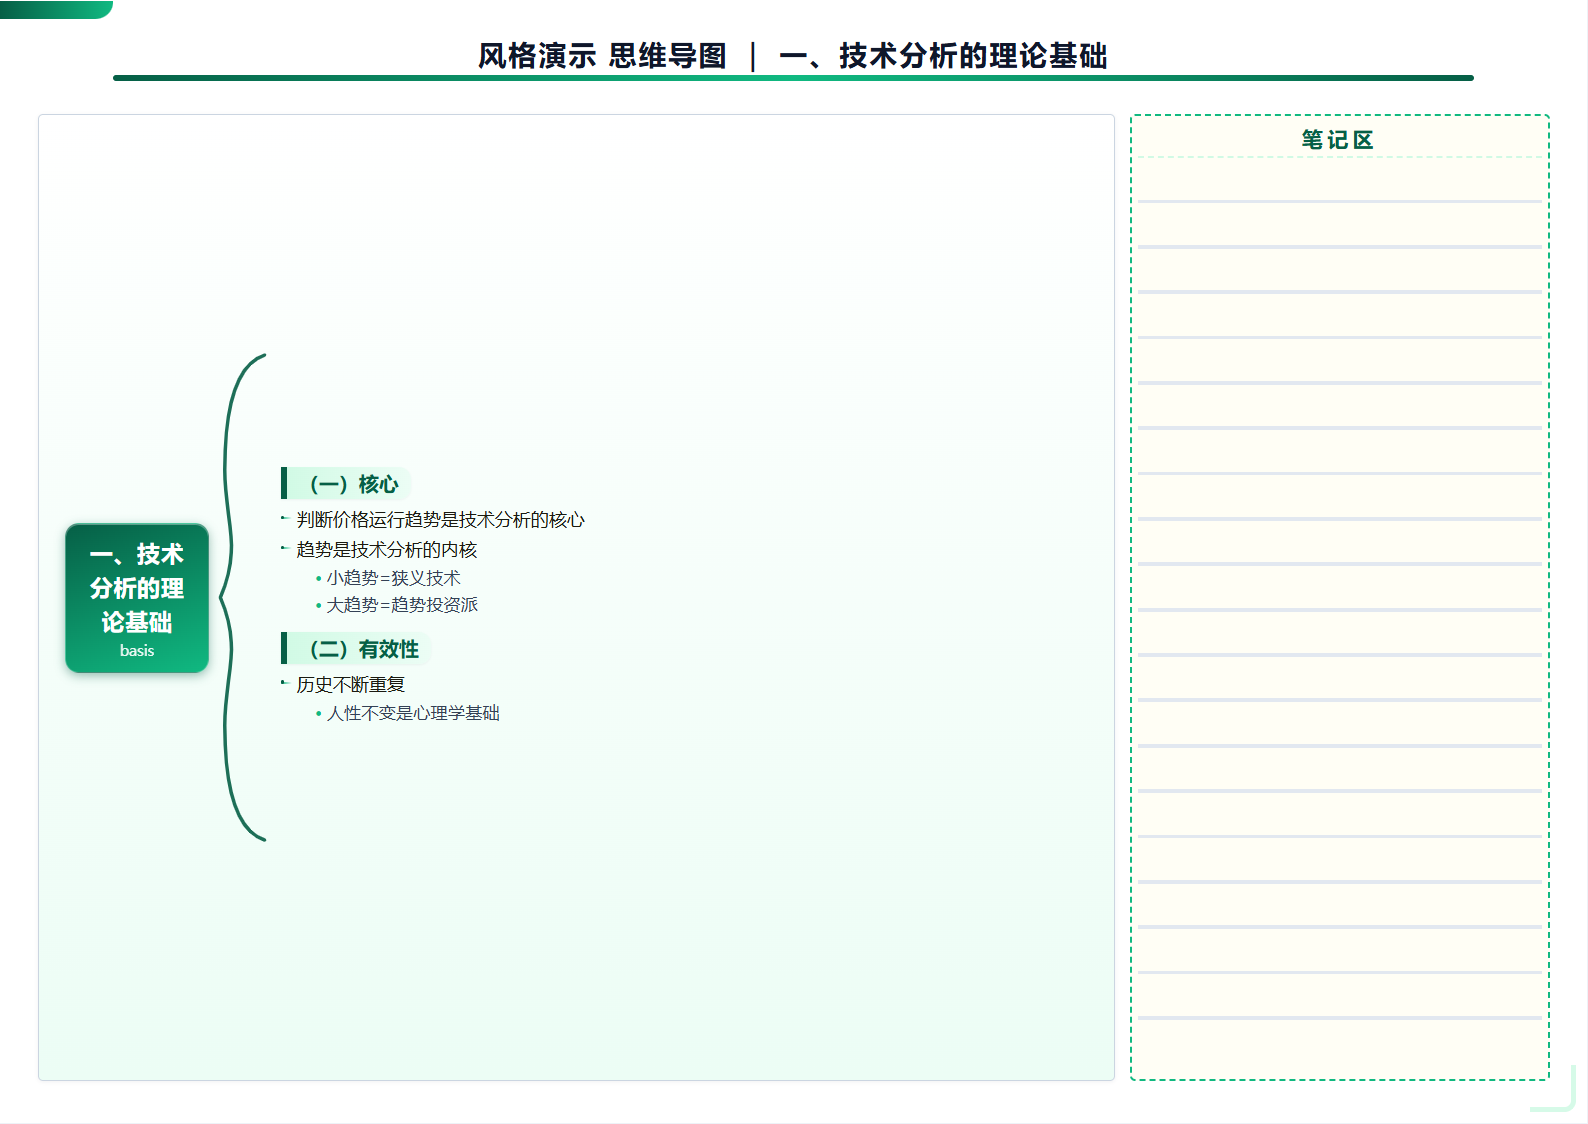
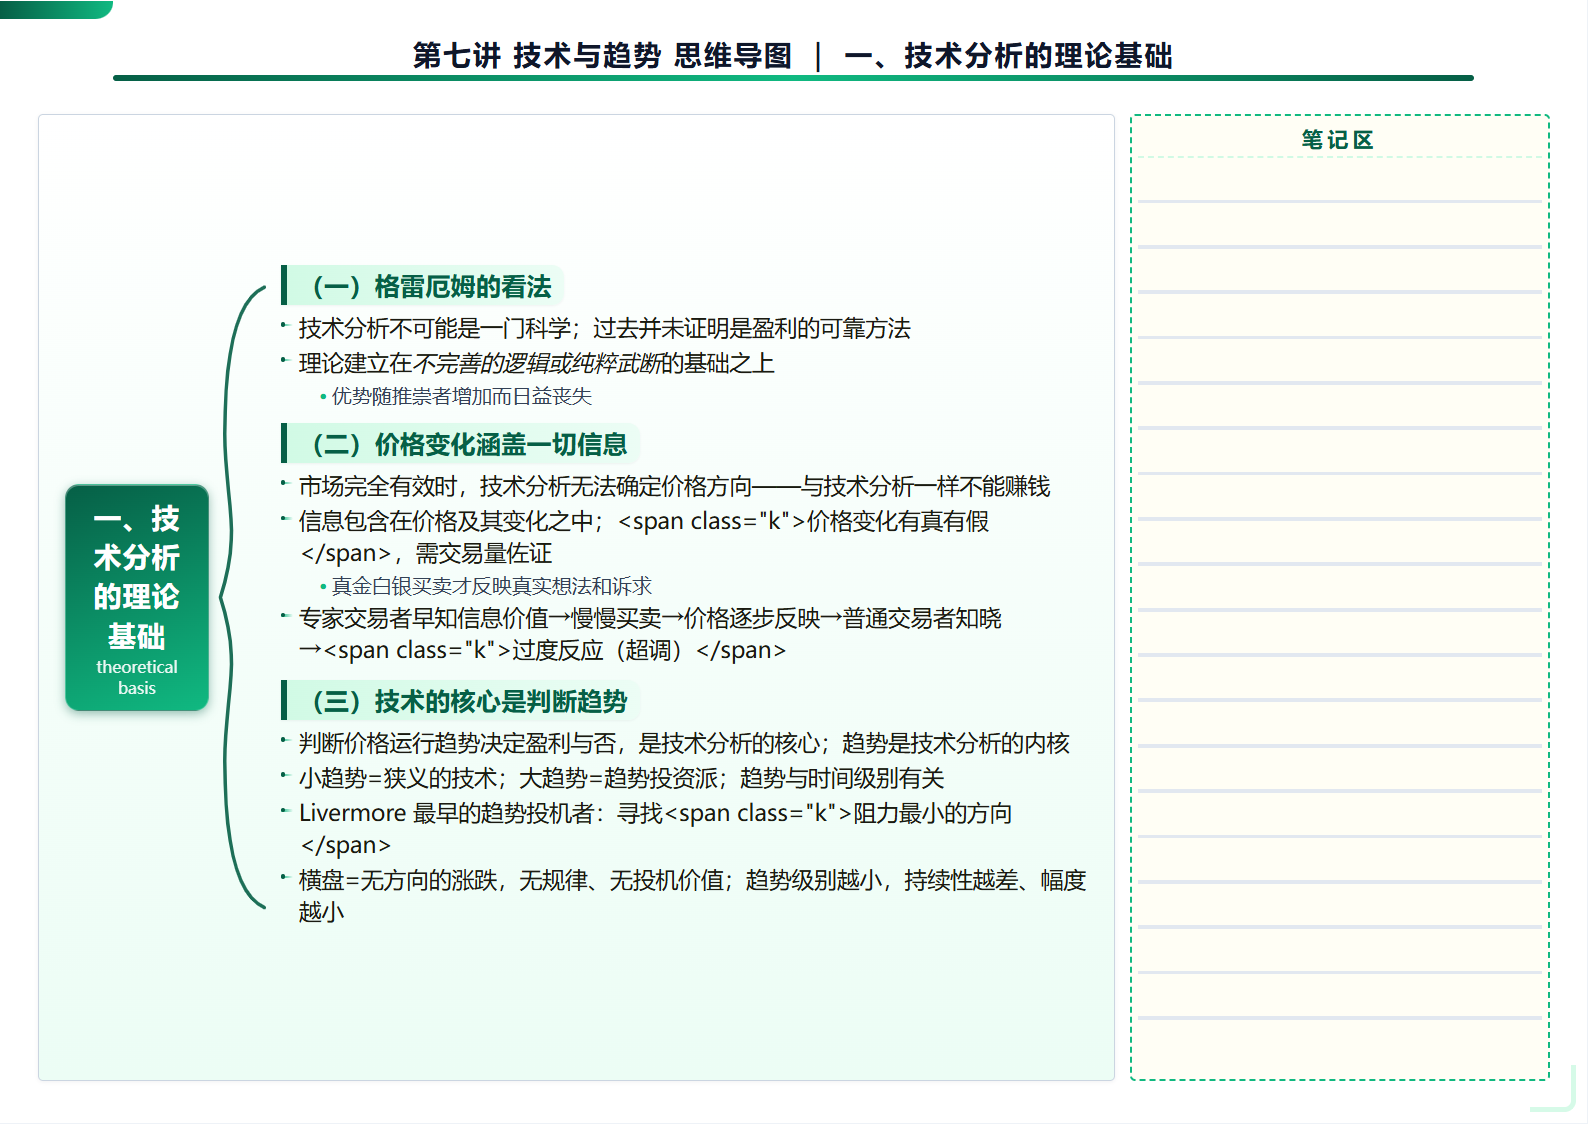
docs: 示例截图统一为证券第七讲大字版（4 风格 + 测试题）
- style_*.png 换成《证券投资与技术分析·第七讲 技术与趋势》分别以经典/极简/创意/学术渲染的第一主干页
- quiz.png 更新为第七讲大字版测试题页
- README 描述同步：风格选择在「思维导图模式」下方、预览为可关闭可缩放 tab 抽屉

diff --git a/README.md b/README.md
@@ -12,7 +12,7 @@
 |---|---|
 | ![封面](docs/screenshots/cover.png) | ![测试题](docs/screenshots/quiz.png) |
 
-### 四种思维导图风格（侧边栏「思维导图」→ 子栏目切换，选中即默认）
+### 四种思维导图风格（新建会话选择「思维导图模式」后，在模式下方选择，选中即默认）
 
 | 经典大括号 | 极简商务 |
 |---|---|
@@ -26,7 +26,7 @@
 > 思维导图页由 `mm_generate` 依据《证券投资与技术分析·第七讲 技术与趋势》课件真实生成，
 > A3 横向、**黑体**、每主干一页、右侧笔记区留白，打印即分页。
 
-- **前端**：侧边栏新增「思维导图」入口，点击展开**风格子栏目**（经典大括号 / 极简商务 / 活泼创意 / 学术整理），选中后打开**右侧预览抽屉**；会话中生成的 HTML **自动打开预览**。新建会话的预设选择器中新增「**思维导图模式**」，与「标准模式 / 创造模式」并列。
+- **前端**：新建会话时选择「**思维导图模式**」→ 模式下方弹出**风格选择**（经典大括号 / 极简商务 / 活泼创意 / 学术整理），选中后作为生成默认风格；侧边栏「思维导图」入口打开**右侧预览抽屉**，会话中生成的 HTML **自动打开预览**（JupyterLab 式 tab 栏，可关闭、可缩放）。新建会话的预设选择器中「思维导图模式」与「标准模式 / 创造模式」并列。
 - **Agent 能力**：`mm_generate`（一键生成 HTML，含逐页溢出报告 + 风格参数）、`mm_extract`（提取纯文本课件）；`mindmap-builder` skill 固化「大括号式横向思维导图」的完整构建方法。
 - **产出规格**（与范例 `组胚思维导图_02_人体发育总论.html` 一致）：
   - A3 横向（420mm×297mm），打印即分页；每页 = 一个主干知识点
